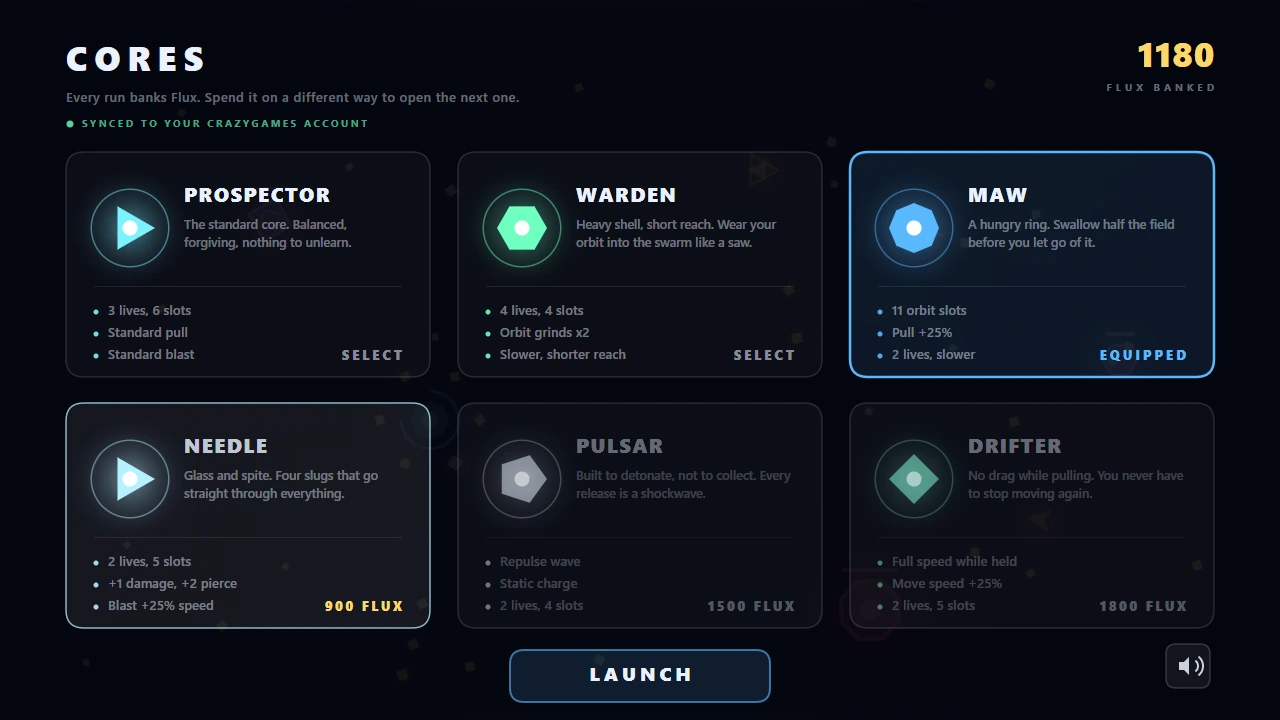
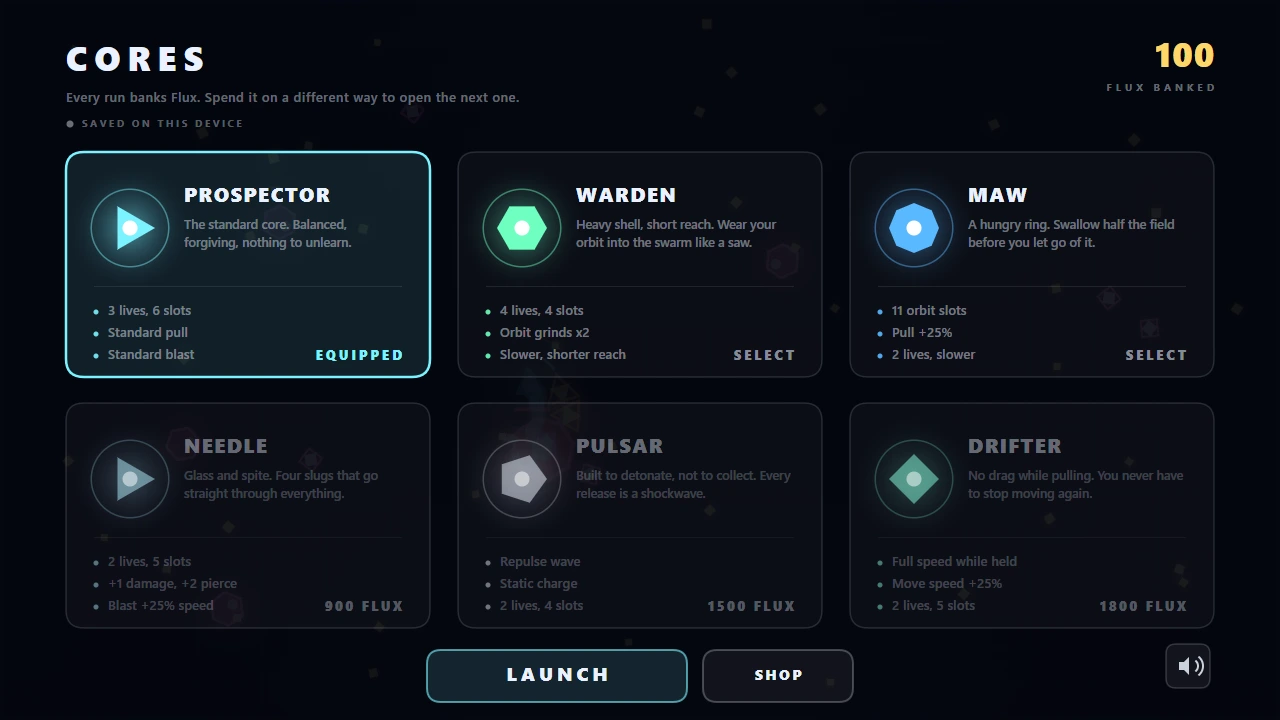
UI pass: fix a frozen damage flash, and quiet the decision screens
Went looking at the actual screens rather than guessing, and the first thing
the captures showed was a bug, not a taste problem.

G.flash, G.dmgFlash and G.chroma were decayed inside update(), which only runs
while the sim does. Since you almost always take a hit in the seconds before
dying, the red damage flash was still at full strength when the sim stopped -
and it is painted after the menus are drawn, so it sat frozen on top of the
death screen and everything reached from it. Measured at the screen edge:
rgb(3,5,13) clean versus rgb(118,21,39) washed, permanently. They are
presentation, not simulation, so they now decay on real time in frame(), and
the arena flashes are additionally gated to arena modes.

Then three things that were only clutter:

- The HUD is drawn behind the level-up and death screens, where it repeats in
  a ghost layer what the panel already says - wave, score, level - and offers
  a pause button that does nothing there. Both screens now draw the one
  control worth keeping, mute, and nothing else.
- Enemy health bars were drawn at full for every tough enemy on screen. A full
  bar reports nothing; they now appear once there is damage to report.
- Level-up cards and the death panel were filled at 4% white, so the slowed
  field drifted through the words you are comparing. They get their own
  surface now; the neon edge still carries the styling.

README shots for gameplay, level-up and cores refreshed - the old ones showed
[…]

diff --git a/dist/index.html b/dist/index.html
@@ -1257,10 +1257,8 @@ function update(dt){
 
   /* ---- timers / global fx ---- */
   G.shake = Math.max(0, G.shake - G.shake*7*dt - 12*dt);
-  G.flash = Math.max(0, G.flash - dt*2.4);
   G.pulse = Math.max(0, G.pulse - dt*2.2);
-  G.chroma = Math.max(0, G.chroma - dt*1.4);
-  G.dmgFlash = Math.max(0, G.dmgFlash - dt*1.8);
+  /* flash, dmgFlash and chroma decay in frame() instead - see the note there. */
   G.waveBanner = Math.max(0, G.waveBanner - dt);
   if(G.comboT>0){ G.comboT-=dt; if(G.comboT<=0) G.combo=0; }
   P.inv = Math.max(0, P.inv-dt);
@@ -1882,9 +1880,13 @@ function render(rdt){
   base();
   ctx.save();
   ctx.beginPath(); ctx.rect(0,0,VW,VH); ctx.clip();
-  // Both meta screens are full screens of their own, and the HUD would ghost
-  // through the 0.94 backdrop they draw over it.
-  if(G.mode!=='cores' && G.mode!=='shop') drawHUD();
+  /* The HUD belongs to the arena. On a decision screen it only repeats in a
+     ghost layer what the panel already says - wave, score, level - and offers
+     a pause button that does nothing there. The meta screens are full screens
+     of their own and would ghost through their backdrop as well. */
+  var showHUD = (G.mode==='play' || G.mode==='intro' ||
+                 G.mode==='dying' || G.mode==='revive');
+  if(showHUD) drawHUD();
   if(G.mode==='intro') drawIntro();
   if(G.mode==='levelup') drawLevelUp();
   if(G.mode==='over') drawGameOver();
@@ -1896,13 +1898,16 @@ function render(rdt){
   if(G.paused && G.mode==='play') drawPaused();
   drawCursor();
 
-  if(G.flash>0.001){
+  /* Belt and braces: even mid-fade, these belong to the arena and not to a
+     screen you are reading. */
+  var arenaFx = (G.mode==='play' || G.mode==='intro' || G.mode==='dying');
+  if(arenaFx && G.flash>0.001){
     ctx.globalCompositeOperation='lighter';
     ctx.fillStyle='rgba(180,220,255,'+(G.flash*0.30)+')';
     ctx.fillRect(0,0,VW,VH);
     ctx.globalCompositeOperation='source-over';
   }
-  if(G.dmgFlash>0.001){
+  if(arenaFx && G.dmgFlash>0.001){
     // Kept off the centre of the screen: the moment you take a hit is the
     // moment you most need to see what is coming next.
     var gr = ctx.createRadialGradient(VW/2,VH/2,VH*0.42, VW/2,VH/2,VH*0.88);
@@ -2118,7 +2123,9 @@ function drawEnemies(){
       ctx.globalAlpha = 1;
     }
 
-    if(e.maxHp>2 && e.type!=='boss'){
+    // Only once it has something to say: a full bar is six pixels of noise
+    // repeated across every tough enemy on screen.
+    if(e.maxHp>2 && e.type!=='boss' && e.hp < e.maxHp){
       var w = e.r*1.8, hp = clamp(e.hp/e.maxHp,0,1);
       ctx.globalAlpha=0.85;
       ctx.fillStyle='rgba(0,0,0,0.55)'; ctx.fillRect(e.x-w/2, e.y-e.r-11, w, 4);
@@ -2379,7 +2386,9 @@ function drawIntro(){
 function drawLevelUp(){
   G.cardT = (G.cardT||0) + 0.016;
   var a = clamp(G.cardT*5,0,1);
-  ctx.fillStyle='rgba(3,5,14,'+(0.82*a)+')';
+  // Deep enough that the slowed field reads as texture rather than as
+  // something moving across the words you are trying to compare.
+  ctx.fillStyle='rgba(3,5,14,'+(0.90*a)+')';
   ctx.fillRect(0,0,VW,VH);
 
   var hi = RARITY[G.bestRarity||0];
@@ -2405,7 +2414,10 @@ function drawLevelUp(){
       ctx.globalAlpha = ca;
     }
 
-    ctx.fillStyle = hov ? hexA(rar.col,0.15) : 'rgba(255,255,255,0.042)';
+    /* A card needs its own surface. At 4% white the slowed field drifted
+       straight through the words you are comparing - the neon edge still
+       carries the styling, the fill just stops competing with the text. */
+    ctx.fillStyle = hov ? hexA(rar.col,0.15) : 'rgba(7,10,20,0.72)';
     roundRect(r.x, top, r.w, r.h, 18); ctx.fill();
     ctx.strokeStyle = hov ? rar.col : hexA(rar.col, u.r?0.55:0.32);
     ctx.lineWidth = hov?3:(u.r?2:1.5);
@@ -2445,6 +2457,8 @@ function drawLevelUp(){
 
   text(IN.isTouch?'Tap a card':'Click a card, or press 1 / 2 / 3',
        VW/2, 616, 14, C.dim, 'center', 600, a*0.75, 1.5);
+  // Pause means nothing here, so only the mute button comes along.
+  drawBtn(BTN_MUTE, (A.muted||A.forced)?'muted':'sound');
 }
 
 function wrapText(str,cx,y,size,col,maxW,lh,align,alpha){
@@ -2485,7 +2499,7 @@ function drawGameOver(){
 
   var by = overY(), bw = 580, bx = VW/2-bw/2, bh = OVER_H;
   ctx.globalAlpha = a;
-  ctx.fillStyle='rgba(255,255,255,0.042)';
+  ctx.fillStyle='rgba(7,10,20,0.72)';      // same reason as the level-up cards
   roundRect(bx,by,bw,bh,22); ctx.fill();
   ctx.strokeStyle=hexA(C.player,0.30); ctx.lineWidth=2;
   roundRect(bx,by,bw,bh,22); ctx.stroke();
@@ -2554,6 +2568,7 @@ function drawGameOver(){
     ? (IN.isTouch ? 'Tap PLAY AGAIN to retry' : 'Press PLAY AGAIN or Enter to retry')
     : (IN.isTouch ? 'Tap anywhere to retry'   : 'Click anywhere or press Enter to retry');
   text(hint, VW/2, by+bh-26, 12, C.dim, 'center', 600, 0.55*a, 1.5);
+  drawBtn(BTN_MUTE, (A.muted||A.forced)?'muted':'sound');
   ctx.globalAlpha = 1;
 }
 
@@ -3943,6 +3958,15 @@ function frame(now){
 
   if(!G.adBusy) A.tick();
   G.uiT += rdt;
+
+  /* These three are presentation, not simulation, so they tick on real time.
+     Decayed inside update() they froze whenever the sim stopped - and since
+     you almost always take a hit in the moments before dying, the red damage
+     flash stayed painted at full strength over the death screen and every
+     menu reached from it. */
+  G.flash    = Math.max(0, G.flash    - rdt*2.4);
+  G.dmgFlash = Math.max(0, G.dmgFlash - rdt*1.8);
+  G.chroma   = Math.max(0, G.chroma   - rdt*1.4);
   if(G.mode==='over') G.overT = (G.overT||0) + rdt;
   if(G.menuMsgT > 0) G.menuMsgT -= rdt;
 

diff --git a/game-body.html b/game-body.html
@@ -1248,10 +1248,8 @@ function update(dt){
 
   /* ---- timers / global fx ---- */
   G.shake = Math.max(0, G.shake - G.shake*7*dt - 12*dt);
-  G.flash = Math.max(0, G.flash - dt*2.4);
   G.pulse = Math.max(0, G.pulse - dt*2.2);
-  G.chroma = Math.max(0, G.chroma - dt*1.4);
-  G.dmgFlash = Math.max(0, G.dmgFlash - dt*1.8);
+  /* flash, dmgFlash and chroma decay in frame() instead - see the note there. */
   G.waveBanner = Math.max(0, G.waveBanner - dt);
   if(G.comboT>0){ G.comboT-=dt; if(G.comboT<=0) G.combo=0; }
   P.inv = Math.max(0, P.inv-dt);
@@ -1873,9 +1871,13 @@ function render(rdt){
   base();
   ctx.save();
   ctx.beginPath(); ctx.rect(0,0,VW,VH); ctx.clip();
-  // Both meta screens are full screens of their own, and the HUD would ghost
-  // through the 0.94 backdrop they draw over it.
-  if(G.mode!=='cores' && G.mode!=='shop') drawHUD();
+  /* The HUD belongs to the arena. On a decision screen it only repeats in a
+     ghost layer what the panel already says - wave, score, level - and offers
+     a pause button that does nothing there. The meta screens are full screens
+     of their own and would ghost through their backdrop as well. */
+  var showHUD = (G.mode==='play' || G.mode==='intro' ||
+                 G.mode==='dying' || G.mode==='revive');
+  if(showHUD) drawHUD();
   if(G.mode==='intro') drawIntro();
   if(G.mode==='levelup') drawLevelUp();
   if(G.mode==='over') drawGameOver();
@@ -1887,13 +1889,16 @@ function render(rdt){
   if(G.paused && G.mode==='play') drawPaused();
   drawCursor();
 
-  if(G.flash>0.001){
+  /* Belt and braces: even mid-fade, these belong to the arena and not to a
+     screen you are reading. */
+  var arenaFx = (G.mode==='play' || G.mode==='intro' || G.mode==='dying');
+  if(arenaFx && G.flash>0.001){
     ctx.globalCompositeOperation='lighter';
     ctx.fillStyle='rgba(180,220,255,'+(G.flash*0.30)+')';
     ctx.fillRect(0,0,VW,VH);
     ctx.globalCompositeOperation='source-over';
   }
-  if(G.dmgFlash>0.001){
+  if(arenaFx && G.dmgFlash>0.001){
     // Kept off the centre of the screen: the moment you take a hit is the
     // moment you most need to see what is coming next.
     var gr = ctx.createRadialGradient(VW/2,VH/2,VH*0.42, VW/2,VH/2,VH*0.88);
@@ -2109,7 +2114,9 @@ function drawEnemies(){
       ctx.globalAlpha = 1;
     }
 
-    if(e.maxHp>2 && e.type!=='boss'){
+    // Only once it has something to say: a full bar is six pixels of noise
+    // repeated across every tough enemy on screen.
+    if(e.maxHp>2 && e.type!=='boss' && e.hp < e.maxHp){
       var w = e.r*1.8, hp = clamp(e.hp/e.maxHp,0,1);
       ctx.globalAlpha=0.85;
       ctx.fillStyle='rgba(0,0,0,0.55)'; ctx.fillRect(e.x-w/2, e.y-e.r-11, w, 4);
@@ -2370,7 +2377,9 @@ function drawIntro(){
 function drawLevelUp(){
   G.cardT = (G.cardT||0) + 0.016;
   var a = clamp(G.cardT*5,0,1);
-  ctx.fillStyle='rgba(3,5,14,'+(0.82*a)+')';
+  // Deep enough that the slowed field reads as texture rather than as
+  // something moving across the words you are trying to compare.
+  ctx.fillStyle='rgba(3,5,14,'+(0.90*a)+')';
   ctx.fillRect(0,0,VW,VH);
 
   var hi = RARITY[G.bestRarity||0];
@@ -2396,7 +2405,10 @@ function drawLevelUp(){
       ctx.globalAlpha = ca;
     }
 
-    ctx.fillStyle = hov ? hexA(rar.col,0.15) : 'rgba(255,255,255,0.042)';
+    /* A card needs its own surface. At 4% white the slowed field drifted
+       straight through the words you are comparing - the neon edge still
+       carries the styling, the fill just stops competing with the text. */
+    ctx.fillStyle = hov ? hexA(rar.col,0.15) : 'rgba(7,10,20,0.72)';
     roundRect(r.x, top, r.w, r.h, 18); ctx.fill();
     ctx.strokeStyle = hov ? rar.col : hexA(rar.col, u.r?0.55:0.32);
     ctx.lineWidth = hov?3:(u.r?2:1.5);
@@ -2436,6 +2448,8 @@ function drawLevelUp(){
 
   text(IN.isTouch?'Tap a card':'Click a card, or press 1 / 2 / 3',
        VW/2, 616, 14, C.dim, 'center', 600, a*0.75, 1.5);
+  // Pause means nothing here, so only the mute button comes along.
+  drawBtn(BTN_MUTE, (A.muted||A.forced)?'muted':'sound');
 }
 
 function wrapText(str,cx,y,size,col,maxW,lh,align,alpha){
@@ -2476,7 +2490,7 @@ function drawGameOver(){
 
   var by = overY(), bw = 580, bx = VW/2-bw/2, bh = OVER_H;
   ctx.globalAlpha = a;
-  ctx.fillStyle='rgba(255,255,255,0.042)';
+  ctx.fillStyle='rgba(7,10,20,0.72)';      // same reason as the level-up cards
   roundRect(bx,by,bw,bh,22); ctx.fill();
   ctx.strokeStyle=hexA(C.player,0.30); ctx.lineWidth=2;
   roundRect(bx,by,bw,bh,22); ctx.stroke();
@@ -2545,6 +2559,7 @@ function drawGameOver(){
     ? (IN.isTouch ? 'Tap PLAY AGAIN to retry' : 'Press PLAY AGAIN or Enter to retry')
     : (IN.isTouch ? 'Tap anywhere to retry'   : 'Click anywhere or press Enter to retry');
   text(hint, VW/2, by+bh-26, 12, C.dim, 'center', 600, 0.55*a, 1.5);
+  drawBtn(BTN_MUTE, (A.muted||A.forced)?'muted':'sound');
   ctx.globalAlpha = 1;
 }
 
@@ -3934,6 +3949,15 @@ function frame(now){
 
   if(!G.adBusy) A.tick();
   G.uiT += rdt;
+
+  /* These three are presentation, not simulation, so they tick on real time.
+     Decayed inside update() they froze whenever the sim stopped - and since
+     you almost always take a hit in the moments before dying, the red damage
+     flash stayed painted at full strength over the death screen and every
+     menu reached from it. */
+  G.flash    = Math.max(0, G.flash    - rdt*2.4);
+  G.dmgFlash = Math.max(0, G.dmgFlash - rdt*1.8);
+  G.chroma   = Math.max(0, G.chroma   - rdt*1.4);
   if(G.mode==='over') G.overT = (G.overT||0) + rdt;
   if(G.menuMsgT > 0) G.menuMsgT -= rdt;
 

diff --git a/scripts/ui_clean.py b/scripts/ui_clean.py
@@ -1,0 +1,118 @@
+import io, os
+os.chdir(os.path.join(os.path.dirname(os.path.abspath(__file__)), '..'))
+
+
+def patch(path, pairs):
+    s = io.open(path, 'rb').read().replace(b'\r\n', b'\n').decode('utf-8')
+    for old, new in pairs:
+        assert old in s, '%s: not found -> %r' % (path, old[:70])
+        assert s.count(old) == 1, '%s: ambiguous -> %r' % (path, old[:70])
+        s = s.replace(old, new, 1)
+    io.open(path, 'w', encoding='utf-8', newline='\n').write(s)
+
+
+# ------------------------------------------------------------------ p3
+# The screen-wide flashes are presentation, not simulation. Decaying them
+# inside update() meant they froze the moment the sim stopped.
+patch('src/p3.txt', [(
+"""  G.shake = Math.max(0, G.shake - G.shake*7*dt - 12*dt);
+  G.flash = Math.max(0, G.flash - dt*2.4);
+  G.pulse = Math.max(0, G.pulse - dt*2.2);
+  G.chroma = Math.max(0, G.chroma - dt*1.4);
+  G.dmgFlash = Math.max(0, G.dmgFlash - dt*1.8);
+  G.waveBanner = Math.max(0, G.waveBanner - dt);""",
+"""  G.shake = Math.max(0, G.shake - G.shake*7*dt - 12*dt);
+  G.pulse = Math.max(0, G.pulse - dt*2.2);
+  /* flash, dmgFlash and chroma decay in frame() instead - see the note there. */
+  G.waveBanner = Math.max(0, G.waveBanner - dt);""")])
+
+
+# ------------------------------------------------------------------ p4
+# A full bar says nothing. Only draw one once it has something to report.
+patch('src/p4.txt', [])
+
+patch('src/p5.txt', [
+
+# ---- 1. decay the screen flashes on real time, so they cannot freeze ----
+("""  if(!G.adBusy) A.tick();
+  G.uiT += rdt;""",
+ """  if(!G.adBusy) A.tick();
+  G.uiT += rdt;
+
+  /* These three are presentation, not simulation, so they tick on real time.
+     Decayed inside update() they froze whenever the sim stopped - and since
+     you almost always take a hit in the moments before dying, the red damage
+     flash stayed painted at full strength over the death screen and every
+     menu reached from it. */
+  G.flash    = Math.max(0, G.flash    - rdt*2.4);
+  G.dmgFlash = Math.max(0, G.dmgFlash - rdt*1.8);
+  G.chroma   = Math.max(0, G.chroma   - rdt*1.4);"""),
+
+# ---- 2. and never paint an arena flash over a menu ----
+("""  if(G.flash>0.001){
+    ctx.globalCompositeOperation='lighter';
+    ctx.fillStyle='rgba(180,220,255,'+(G.flash*0.30)+')';
+    ctx.fillRect(0,0,VW,VH);
+    ctx.globalCompositeOperation='source-over';
+  }
+  if(G.dmgFlash>0.001){""",
+ """  /* Belt and braces: even mid-fade, these belong to the arena and not to a
+     screen you are reading. */
+  var arenaFx = (G.mode==='play' || G.mode==='intro' || G.mode==='dying');
+  if(arenaFx && G.flash>0.001){
+    ctx.globalCompositeOperation='lighter';
+    ctx.fillStyle='rgba(180,220,255,'+(G.flash*0.30)+')';
+    ctx.fillRect(0,0,VW,VH);
+    ctx.globalCompositeOperation='source-over';
+  }
+  if(arenaFx && G.dmgFlash>0.001){"""),
+
+# ---- 3. the HUD is for playing ----
+("""  // Both meta screens are full screens of their own, and the HUD would ghost
+  // through the 0.94 backdrop they draw over it.
+  if(G.mode!=='cores' && G.mode!=='shop') drawHUD();""",
+ """  /* The HUD belongs to the arena. On a decision screen it only repeats in a
+     ghost layer what the panel already says - wave, score, level - and offers
+     a pause button that does nothing there. The meta screens are full screens
+     of their own and would ghost through their backdrop as well. */
+  var showHUD = (G.mode==='play' || G.mode==='intro' ||
+                 G.mode==='dying' || G.mode==='revive');
+  if(showHUD) drawHUD();"""),
+
+# ---- ...so the two screens that lose it keep the one control worth having ----
+("""  text(IN.isTouch?'Tap a card':'Click a card, or press 1 / 2 / 3',
+       VW/2, 616, 14, C.dim, 'center', 600, a*0.75, 1.5);
+}""",
+ """  text(IN.isTouch?'Tap a card':'Click a card, or press 1 / 2 / 3',
+       VW/2, 616, 14, C.dim, 'center', 600, a*0.75, 1.5);
+  // Pause means nothing here, so only the mute button comes along.
+  drawBtn(BTN_MUTE, (A.muted||A.forced)?'muted':'sound');
+}"""),
+("""  text(hint, VW/2, by+bh-26, 12, C.dim, 'center', 600, 0.55*a, 1.5);
+  ctx.globalAlpha = 1;
+}""",
+ """  text(hint, VW/2, by+bh-26, 12, C.dim, 'center', 600, 0.55*a, 1.5);
+  drawBtn(BTN_MUTE, (A.muted||A.forced)?'muted':'sound');
+  ctx.globalAlpha = 1;
+}"""),
+
+# ---- 4. card text should not compete with the field drifting behind it ----
+("""  ctx.fillStyle='rgba(3,5,14,'+(0.82*a)+')';
+  ctx.fillRect(0,0,VW,VH);
+
+  var hi = RARITY[G.bestRarity||0];""",
+ """  // Deep enough that the slowed field reads as texture rather than as
+  // something moving across the words you are trying to compare.
+  ctx.fillStyle='rgba(3,5,14,'+(0.90*a)+')';
+  ctx.fillRect(0,0,VW,VH);
+
+  var hi = RARITY[G.bestRarity||0];"""),
+
+# ---- 5. a full health bar carries no information ----
+("""    if(e.maxHp>2 && e.type!=='boss'){""",
+ """    // Only once it has something to say: a full bar is six pixels of noise
+    // repeated across every tough enemy on screen.
+    if(e.maxHp>2 && e.type!=='boss' && e.hp < e.maxHp){""")])
+
+print('UI pass: flash never freezes, HUD off the decision screens, '
+      'deeper level-up backdrop, health bars only when damaged')

diff --git a/README.md b/README.md
@@ -2,7 +2,7 @@
 
 [![CrazyGames requirements](https://img.shields.io/badge/CrazyGames_requirements-12%2F12_met-7cf3ff?style=flat-square)](#crazygames-submission-checklist)
 [![SDK](https://img.shields.io/badge/CrazyGames_SDK-v3_integrated-c88bff?style=flat-square)](#sdk-integration)
-[![Build](https://img.shields.io/badge/build-159_KB_single_file-6effc0?style=flat-square)](#magnetar)
+[![Build](https://img.shields.io/badge/build-161_KB_single_file-6effc0?style=flat-square)](#magnetar)
 [![Dependencies](https://img.shields.io/badge/dependencies-none-b9c7de?style=flat-square)](#magnetar)
 [![Network requests](https://img.shields.io/badge/network_requests-0-b9c7de?style=flat-square)](#magnetar)
 [![License](https://img.shields.io/badge/license-PolyForm_Strict_1.0.0-b9c7de?style=flat-square)](LICENSE)
@@ -438,7 +438,7 @@ requirements CrazyGames documents.
 - [x] **No reserved keys** — Escape and Ctrl+W unbound
 - [x] **International keyboards** — arrows + WASD + ZQSD; the blast is radial, so nothing needs rebinding
 - [x] **Touch parity** — drag to move, lift to blast; identical verb on every device
-- [x] **Download size** — 159 KB, one file, well under the 50 MB cap
+- [x] **Download size** — 161 KB, one file, well under the 50 MB cap
 - [x] **Zero external requests** — procedural art, WebAudio-synthesised music and SFX, no CDN, no assets
 - [x] **Audio behaviour** — starts only after a user gesture, mute persists, pauses on blur/hidden, ducks for ads
 - [x] **PEGI 12** — abstract neon shapes, no gore, no sexual content, no real-money gambling

diff --git a/SUBMISSION.md b/SUBMISSION.md
@@ -28,7 +28,7 @@ to bundle anyway.
 | Landscape video | `media/preview-landscape.mp4` | 1280×720, 10s, H.264, no audio |
 | Portrait video | `media/preview-portrait.mp4` | 800×1200, 10s, gameplay over a title lockup |
 
-Build size is ~159 KB in one file — far inside the 50 MB initial-download cap
+Build size is ~161 KB in one file — far inside the 50 MB initial-download cap
 and the 1,500 file limit, and inside the 20 MB threshold for mobile homepage
 eligibility.
 
